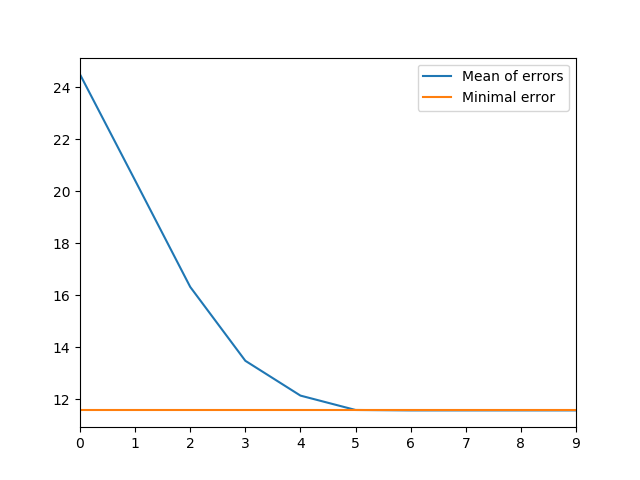
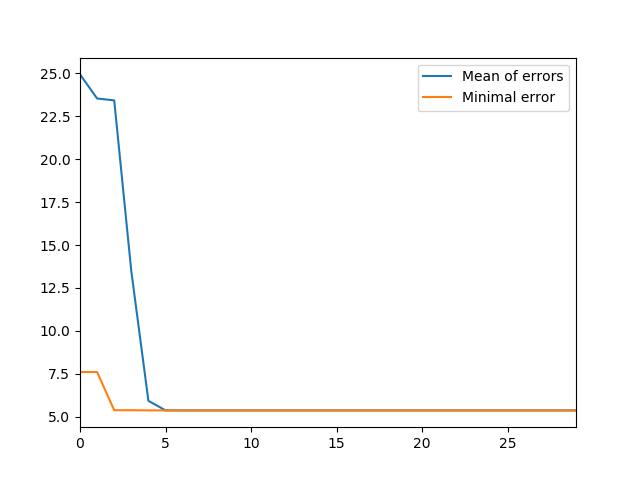
Fixed error with crossover there is still an error with mutation

diff --git a/src/data.html b/src/data.html
@@ -9,53 +9,153 @@
   <tbody>
     <tr>
       <th>0</th>
-      <td>24.501846</td>
-      <td>11.577901</td>
+      <td>24.945205</td>
+      <td>7.601823</td>
     </tr>
     <tr>
       <th>1</th>
-      <td>20.423836</td>
-      <td>11.577901</td>
+      <td>23.541507</td>
+      <td>7.601823</td>
     </tr>
     <tr>
       <th>2</th>
-      <td>16.327065</td>
-      <td>11.577901</td>
+      <td>23.432375</td>
+      <td>5.378319</td>
     </tr>
     <tr>
       <th>3</th>
-      <td>13.485970</td>
-      <td>11.577901</td>
+      <td>13.477257</td>
+      <td>5.378319</td>
     </tr>
     <tr>
       <th>4</th>
-      <td>12.147198</td>
-      <td>11.577901</td>
+      <td>5.925005</td>
+      <td>5.367931</td>
     </tr>
     <tr>
       <th>5</th>
-      <td>11.594210</td>
-      <td>11.577901</td>
+      <td>5.370030</td>
+      <td>5.367931</td>
     </tr>
     <tr>
       <th>6</th>
-      <td>11.577901</td>
-      <td>11.577901</td>
+      <td>5.367931</td>
+      <td>5.367931</td>
     </tr>
     <tr>
       <th>7</th>
-      <td>11.577901</td>
-      <td>11.577901</td>
+      <td>5.367931</td>
+      <td>5.367931</td>
     </tr>
     <tr>
       <th>8</th>
-      <td>11.577901</td>
-      <td>11.577901</td>
+      <td>5.367931</td>
+      <td>5.367931</td>
     </tr>
     <tr>
       <th>9</th>
-      <td>11.577901</td>
-      <td>11.577901</td>
+      <td>5.367931</td>
+      <td>5.367931</td>
+    </tr>
+    <tr>
+      <th>10</th>
+      <td>5.367931</td>
+      <td>5.367931</td>
+    </tr>
+    <tr>
+      <th>11</th>
+      <td>5.367931</td>
+      <td>5.367931</td>
+    </tr>
+    <tr>
+      <th>12</th>
+      <td>5.367931</td>
+      <td>5.367931</td>
+    </tr>
+    <tr>
+      <th>13</th>
+      <td>5.367931</td>
+      <td>5.367931</td>
+    </tr>
+    <tr>
+      <th>14</th>
+      <td>5.367931</td>
+      <td>5.367931</td>
+    </tr>
+    <tr>
+      <th>15</th>
+      <td>5.367931</td>
+      <td>5.367931</td>
+    </tr>
+    <tr>
+      <th>16</th>
+      <td>5.367931</td>
+      <td>5.367931</td>
+    </tr>
+    <tr>
+      <th>17</th>
+      <td>5.367931</td>
+      <td>5.367931</td>
+    </tr>
+    <tr>
+      <th>18</th>
+      <td>5.367931</td>
+      <td>5.367931</td>
+    </tr>
+    <tr>
+      <th>19</th>
+      <td>5.367931</td>
+      <td>5.367931</td>
+    </tr>
+    <tr>
+      <th>20</th>
+      <td>5.367931</td>
+      <td>5.367931</td>
+    </tr>
+    <tr>
+      <th>21</th>
+      <td>5.367931</td>
+      <td>5.367931</td>
+    </tr>
+    <tr>
+      <th>22</th>
+      <td>5.367931</td>
+      <td>5.367931</td>
+    </tr>
+    <tr>
+      <th>23</th>
+      <td>5.367931</td>
+      <td>5.367931</td>
+    </tr>
+    <tr>
+      <th>24</th>
+      <td>5.367931</td>
+      <td>5.367931</td>
+    </tr>
+    <tr>
+      <th>25</th>
+      <td>5.367931</td>
+      <td>5.367931</td>
+    </tr>
+    <tr>
+      <th>26</th>
+      <td>5.367931</td>
+      <td>5.367931</td>
+    </tr>
+    <tr>
+      <th>27</th>
+      <td>5.367931</td>
+      <td>5.367931</td>
+    </tr>
+    <tr>
+      <th>28</th>
+      <td>5.367931</td>
+      <td>5.367931</td>
+    </tr>
+    <tr>
+      <th>29</th>
+      <td>5.367931</td>
+      <td>5.367931</td>
     </tr>
   </tbody>
 </table>

diff --git a/src/learning/evolutionManager.py b/src/learning/evolutionManager.py
@@ -77,62 +77,30 @@ class EvolutionManager:
             if candidate.outputLayer[0].accumulatedError < secondCandidate.outputLayer[0].accumulatedError:
                 secondCandidate = candidate
         # ???
-        # offspring = self.makeOffspring(firstCandidate, secondCandidate)
-        offspring = [firstCandidate, secondCandidate]
+        offspring = self.makeOffspring(firstCandidate, secondCandidate)
+        # offspring = [firstCandidate, secondCandidate]
         return offspring
 
     @staticmethod
     def makeOffspring(firstCandidate, secondCandidate):
-        neuronCounter = 0
-        weightCounter = 0
-        while neuronCounter < len(firstCandidate.inputLayer):
-            rd = random.random()
-            if rd > 0.5:
-                firstWeight = firstCandidate.inputLayer[neuronCounter].weights[0]
-                secondWeight = secondCandidate.inputLayer[neuronCounter].weights[0]
-                firstCandidate.inputLayer[neuronCounter].weights[0] = secondWeight
-                secondCandidate.inputLayer[neuronCounter].weights[0] = firstWeight
-            neuronCounter = neuronCounter + 1
-        neuronCounter = 0
-        while neuronCounter < len(firstCandidate.hiddenLayer):
-            while weightCounter < len(firstCandidate.hiddenLayer[neuronCounter].weights):
-                rd = random.random()
-                if rd > 0.5:
-                    firstWeight = firstCandidate.hiddenLayer[neuronCounter].weights[weightCounter]
-                    secondWeight = secondCandidate.hiddenLayer[neuronCounter].weights[weightCounter]
-                    firstCandidate.hiddenLayer[neuronCounter].weights[weightCounter] = secondWeight
-                    secondCandidate.hiddenLayer[neuronCounter].weights[weightCounter] = firstWeight
-                weightCounter = weightCounter + 1
-            weightCounter = 0
-            neuronCounter = neuronCounter + 1
-        neuronCounter = 0
-        while neuronCounter < len(firstCandidate.outputLayer):
-            while weightCounter < len(firstCandidate.outputLayer[neuronCounter].weights):
-                rd = random.random()
-                if rd > 0.5:
-                    firstWeight = firstCandidate.outputLayer[neuronCounter].weights[weightCounter]
-                    secondWeight = secondCandidate.outputLayer[neuronCounter].weights[weightCounter]
-                    firstCandidate.outputLayer[neuronCounter].weights[weightCounter] = secondWeight
-                    secondCandidate.outputLayer[neuronCounter].weights[weightCounter] = firstWeight
-                weightCounter = weightCounter + 1
-            weightCounter = 0
-            neuronCounter = neuronCounter + 1
+        tmpVector = secondCandidate.weightsVector
+        counter = 0
+        while counter < len(tmpVector):
+            r = random.random()
+            if r > 0.5:
+                secondCandidate.weightsVector[counter] = firstCandidate.weightsVector[counter]
+                firstCandidate.weightsVector[counter] = tmpVector[counter]
+            counter = counter + 1
+        firstCandidate.updateNetwork()
+        secondCandidate.updateNetwork()
         offspringList = [firstCandidate, secondCandidate]
         return offspringList
 
     @staticmethod
     def mutate(network):
-        rd = random.random()
-        if rd >= 94:
-            weightId = random.randint(0, len(network.outputLayer[0].weights) - 1)
-            network.outputLayer[0].weights[weightId] = random.uniform(-5, 5)
-        if 46 < rd < 94:
-            weightId = random.randint(0, (len(network.hiddenLayer[0].weights) - 1))
-            neuronId = random.randint(0, (len(network.hiddenLayer) - 1))
-            network.hiddenLayer[neuronId].weights[weightId] = random.uniform(-5, 5)
-        else:
-            neuronId = random.randint(0, (len(network.inputLayer) - 1))
-            network.inputLayer[neuronId].weights[0] = random.uniform(-5, 5)
+        randomWeight = random.randrange(0, (len(network.weightsVector) - 1))
+        network.weightsVector[randomWeight] = random.uniform(-5, 5)
+        network.updateNetwork()
         return network
 
     def getBestInstance(self):
